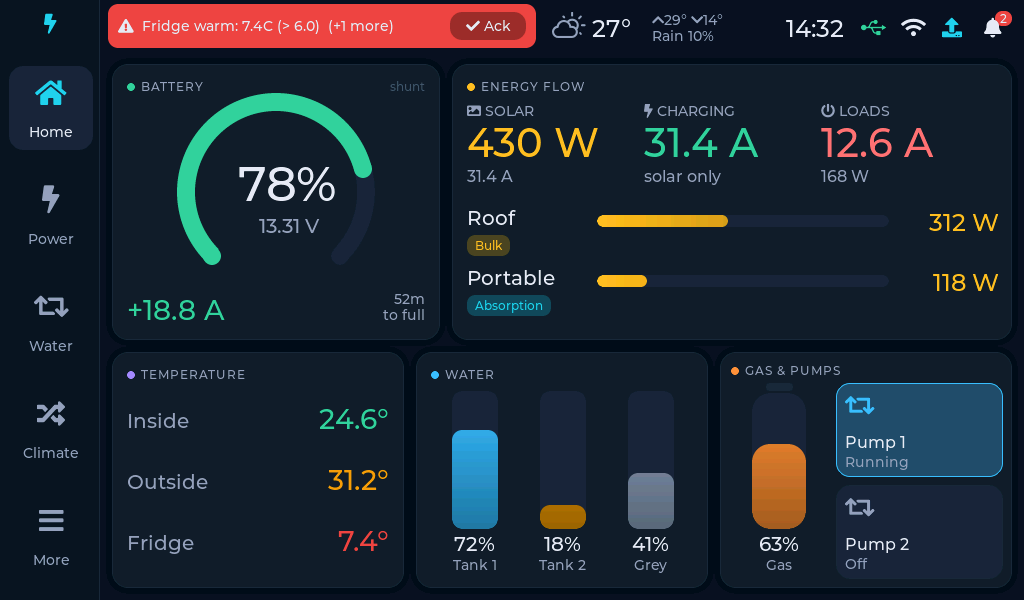
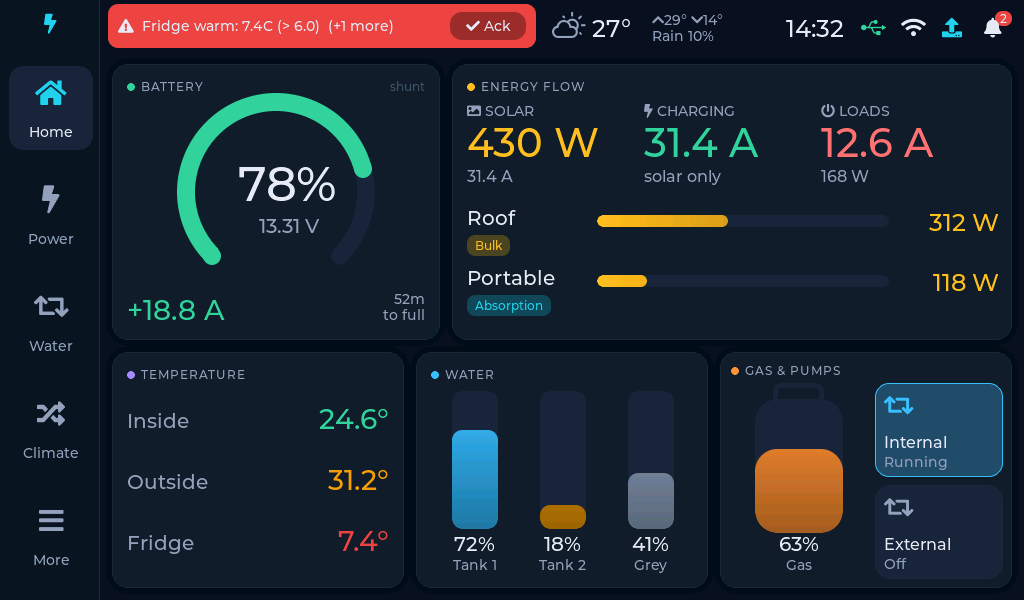
Gas gauge shaped like a 9 kg bottle; narrower pump tiles named Internal/External
Default pump names are now Internal and External (display, web, hub
notifications), and the Home tiles use those names.

Claude-Session: https://claude.ai/code/session_01PBSbX8v9d7dnHXswgJXYpi

Changed region(s): [[0.75, 0.63, 0.9375, 0.96], [0.75, 0.72, 0.7812, 0.75], [0.7188, 0.75, 0.75, 0.78]]

diff --git a/web/index.html b/web/index.html
@@ -65,7 +65,8 @@ main { padding:12px 16px 40px; max-width:1200px; margin:0 auto; }
 .tanks { display:flex; gap:18px; justify-content:space-around; }
 .tank { text-align:center; }
 .tank .tb { width:44px; height:110px; border-radius:10px; background:var(--tile); position:relative; overflow:hidden; margin:0 auto 6px; }
-#gas .tb { border-radius:18px 18px 12px 12px; }
+#gas { flex:0 0 46%; } #gas .tb { width:76px; height:96px; border-radius:22px 22px 14px 14px; }
+#gas .shroud { display:block; width:44px; height:18px; margin:0 auto -4px; border:5px solid var(--tile); border-bottom:0; border-radius:9px 9px 0 0; box-sizing:border-box; }
 .tank .tb i { position:absolute; left:0; right:0; bottom:0; background:var(--water); transition:height .6s; }
 .temps .t { display:flex; justify-content:space-between; align-items:baseline; padding:4px 0; }
 .ctrls { display:grid; grid-template-columns:1fr 1fr; gap:10px; }
@@ -295,7 +296,7 @@ const SEV = ["Info","Warning","Alarm"], SEVC = ["var(--accent)","var(--warn)","v
 const FEATURES = { inverter:false, aircon:false };
 
 let S = null, META = { sol:["Roof","Portable"], tmp:["Inside","Outside","Fridge"], tank:["Tank 1","Tank 2","Grey"],
-  pump:["Main pump","Aux pump"], acp:[], rc:true }, RULES = [];
+  pump:["Internal","External"], acp:[], rc:true }, RULES = [];
 let transport = null, lastMsg = 0;
 
 function toast(msg) { const t = $("#toast"); t.textContent = msg; t.classList.add("show"); clearTimeout(t._h); t._h = setTimeout(() => t.classList.remove("show"), 3200); }
@@ -370,7 +371,7 @@ function render() {
 
   // Gas bottle (BMPRO SmartSense via the OdysseyLink)
   const g = S.gas || { on:false, p:0 }, gc = !g.on ? "var(--dim)" : g.p < 10 ? "var(--alarm)" : g.p < 25 ? "var(--warn)" : "var(--gas)";
-  $("#gas").innerHTML = `<div class="tb"><i style="height:${g.on ? g.p : 0}%; background:${gc}"></i></div>
+  $("#gas").innerHTML = `<span class="shroud"></span><div class="tb"><i style="height:${g.on ? g.p : 0}%; background:${gc}"></i></div>
     <b>${g.on ? Math.round(g.p) + "%" : "--"}</b><div class="muted small">Gas</div>`;
   $("#gasRow").classList.toggle("wide", FEATURES.inverter || FEATURES.aircon);
   $("#ctrlCap").textContent = FEATURES.inverter || FEATURES.aircon ? "Gas & controls" : "Gas & pumps";

diff --git a/firmware/display/src/ui/ui_home.cpp b/firmware/display/src/ui/ui_home.cpp
@@ -1,6 +1,6 @@
 // HOME - everything important on one screen.
 //  [ Battery ring  ] [ Energy flow: solar / charger / loads + per-MPPT  ]
-//  [ Temperatures  ] [ Water tanks      ] [ Gas bottle | Pump 1 / Pump 2 ]
+//  [ Temperatures  ] [ Water tanks      ] [ Gas bottle | Internal / External pumps ]
 #include "../app.h"
 #include "ui.h"
 
@@ -144,20 +144,24 @@ void buildHome(lv_obj_t *p) {
                      col::GAS);
   lv_obj_set_style_pad_all(q, 10, 0);
   constexpr int qw = bw - 20, qh = BOT_H - 20, tg = 8;
-  constexpr int gasW = (tCols == 1 ? qw * 36 / 100 : qw * 28 / 100);
-  constexpr int gasBarW = LARGE ? 54 : 44, gasBarH = qh - 20 - (LARGE ? 50 : 42);  // % and name below
-  // The bottle: a bar with a little valve collar on top.
-  lv_obj_t *collar = lv_obj_create(q);
-  lv_obj_remove_style_all(collar);
-  lv_obj_set_size(collar, gasBarW / 2, 8);
-  lv_obj_set_style_bg_opa(collar, LV_OPA_COVER, 0);
-  lv_obj_set_style_bg_color(collar, c(col::BORDER), 0);
-  lv_obj_set_style_radius(collar, 3, 0);
-  lv_obj_set_pos(collar, (gasW - gasBarW / 2) / 2, 20);
-  gasBar = vbar(q, gasBarW, gasBarH - 10, col::GAS);
-  lv_obj_set_style_radius(gasBar, gasBarW / 3, 0);
-  lv_obj_set_style_radius(gasBar, gasBarW / 3, LV_PART_INDICATOR);
-  lv_obj_set_pos(gasBar, (gasW - gasBarW) / 2, 30);
+  constexpr int gasW = (tCols == 1 ? qw * 50 / 100 : qw * 34 / 100);
+  // Shaped like a 9 kg LPG bottle: about two-thirds as wide as it is tall.
+  constexpr int gasBarH = qh - 20 - (LARGE ? 50 : 42);  // % and name below
+  constexpr int shroudH = 16, bodyH = gasBarH - shroudH + 4;
+  constexpr int gasBarW = bodyH * 66 / 100 < gasW - 8 ? bodyH * 66 / 100 : gasW - 8;
+  // The bottle: a wide rounded body with the carry-handle shroud on top.
+  lv_obj_t *shroud = lv_obj_create(q);
+  lv_obj_remove_style_all(shroud);
+  lv_obj_set_size(shroud, gasBarW * 58 / 100, shroudH + 8);
+  lv_obj_set_style_border_width(shroud, 5, 0);
+  lv_obj_set_style_border_color(shroud, c(col::TILE), 0);
+  lv_obj_set_style_border_opa(shroud, LV_OPA_COVER, 0);
+  lv_obj_set_style_radius(shroud, 8, 0);
+  lv_obj_set_pos(shroud, (gasW - gasBarW * 58 / 100) / 2, 20);
+  gasBar = vbar(q, gasBarW, bodyH, col::GAS);
+  lv_obj_set_style_radius(gasBar, gasBarW / 4, 0);
+  lv_obj_set_style_radius(gasBar, gasBarW / 4, LV_PART_INDICATOR);
+  lv_obj_set_pos(gasBar, (gasW - gasBarW) / 2, 20 + shroudH);
   lv_obj_clear_flag(gasBar, LV_OBJ_FLAG_CLICKABLE);
   gasPct = lbl(q, LARGE ? &lv_font_montserrat_20 : &lv_font_montserrat_16, col::TEXT, "--");
   lv_obj_set_width(gasPct, gasW);
@@ -176,7 +180,7 @@ void buildHome(lv_obj_t *p) {
     n++;
   };
   for (int i = 0; i < cv::NUM_PUMPS; i++) {
-    tilePump[i] = tile(q, tw, th, LV_SYMBOL_LOOP, i == 0 ? "Pump 1" : "Pump 2", pumpCb, (void *)(intptr_t)i);
+    tilePump[i] = tile(q, tw, th, LV_SYMBOL_LOOP, app::meta.pumpName[i], pumpCb, (void *)(intptr_t)i);
     place(tilePump[i]);
   }
   if (HAS_INVERTER) {
@@ -198,6 +202,7 @@ void updateHome() {
     for (int i = 0; i < cv::NUM_SOLAR; i++) lv_label_set_text(mpName[i], app::meta.solarName[i]);
     for (int i = 0; i < cv::NUM_TEMPS; i++) lv_label_set_text(tName[i], app::meta.tempName[i]);
     for (int i = 0; i < cv::NUM_TANKS; i++) lv_label_set_text(tkName[i], app::meta.tankName[i]);
+    for (int i = 0; i < cv::NUM_PUMPS; i++) lv_label_set_text(lv_obj_get_child(tilePump[i], 1), app::meta.pumpName[i]);
   }
 
   // battery

diff --git a/firmware/lib/CaravanCommon/src/CaravanModel.h b/firmware/lib/CaravanCommon/src/CaravanModel.h
@@ -195,7 +195,7 @@ struct Meta {
   char solarName[NUM_SOLAR][16] = {"Roof", "Portable"};
   char tempName[NUM_TEMPS][16] = {"Inside", "Outside", "Fridge"};
   char tankName[NUM_TANKS][16] = {"Tank 1", "Tank 2", "Grey"};
-  char pumpName[NUM_PUMPS][16] = {"Main pump", "Aux pump"};
+  char pumpName[NUM_PUMPS][16] = {"Internal", "External"};
   uint8_t acPresetCount = 0;
   char acPresetName[MAX_AC_PRESETS][16] = {};
   float batCapacityAh = 300;
